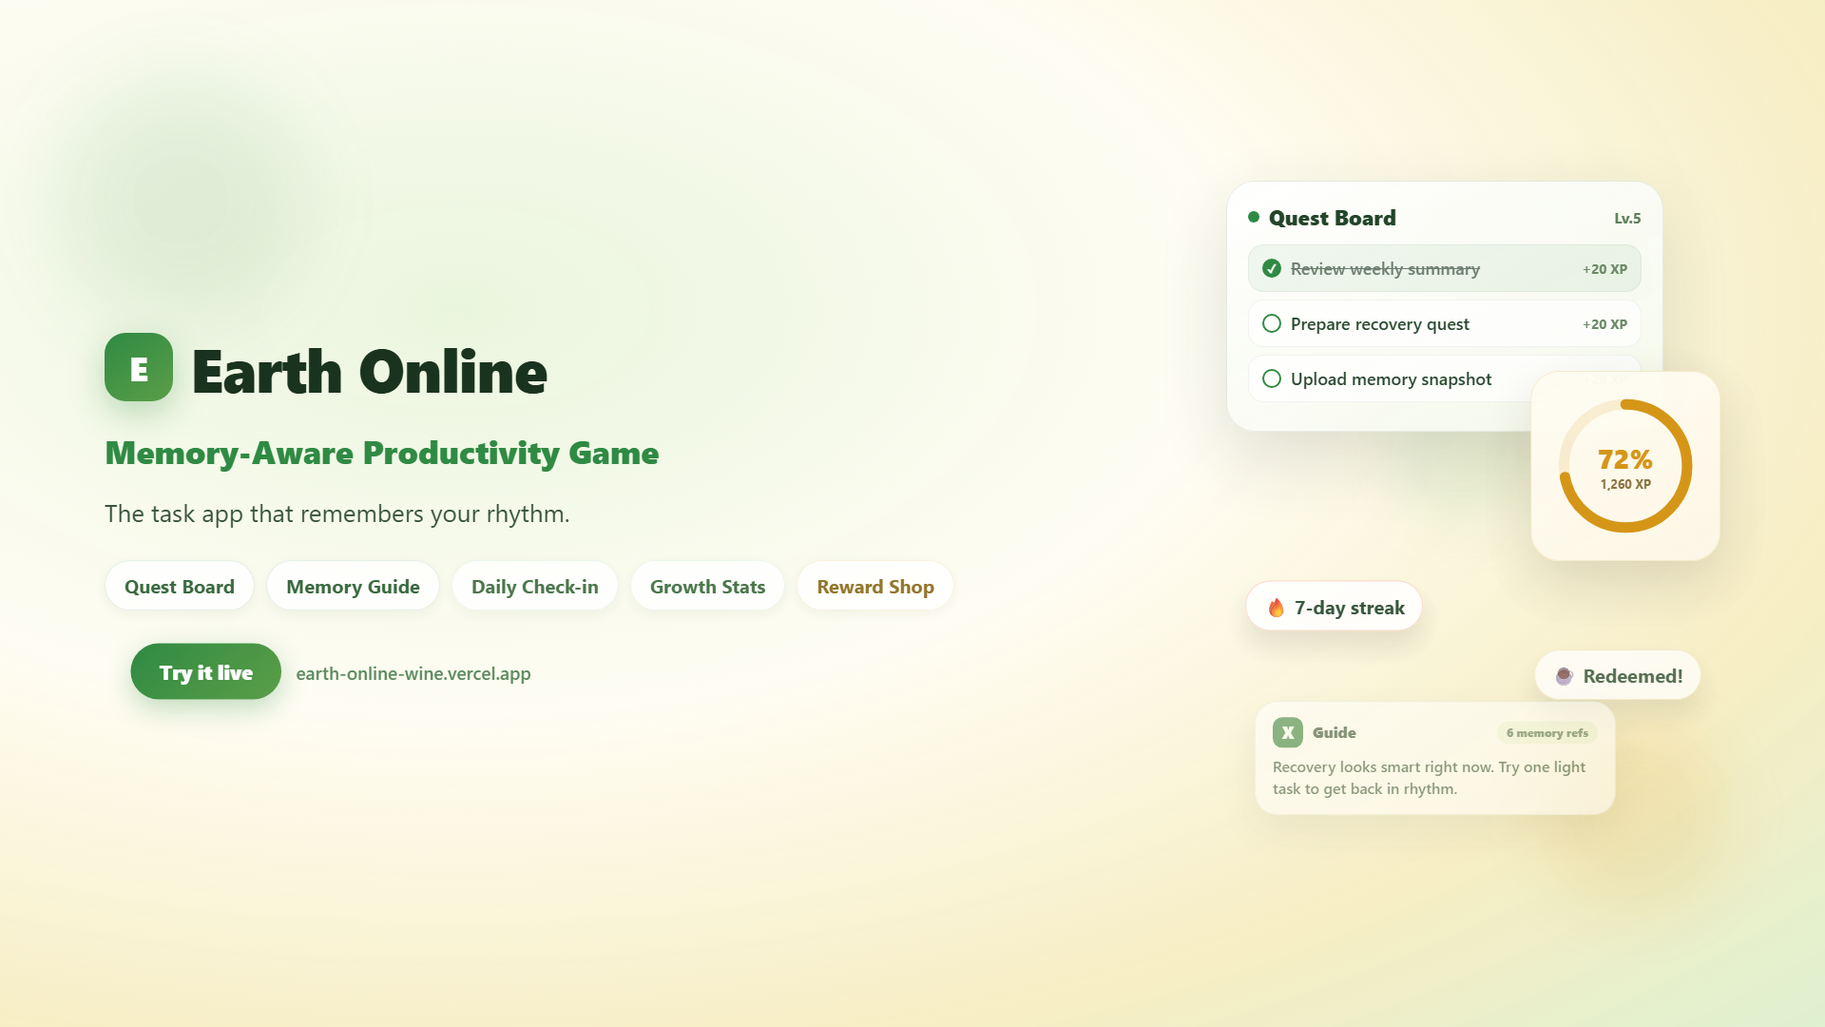
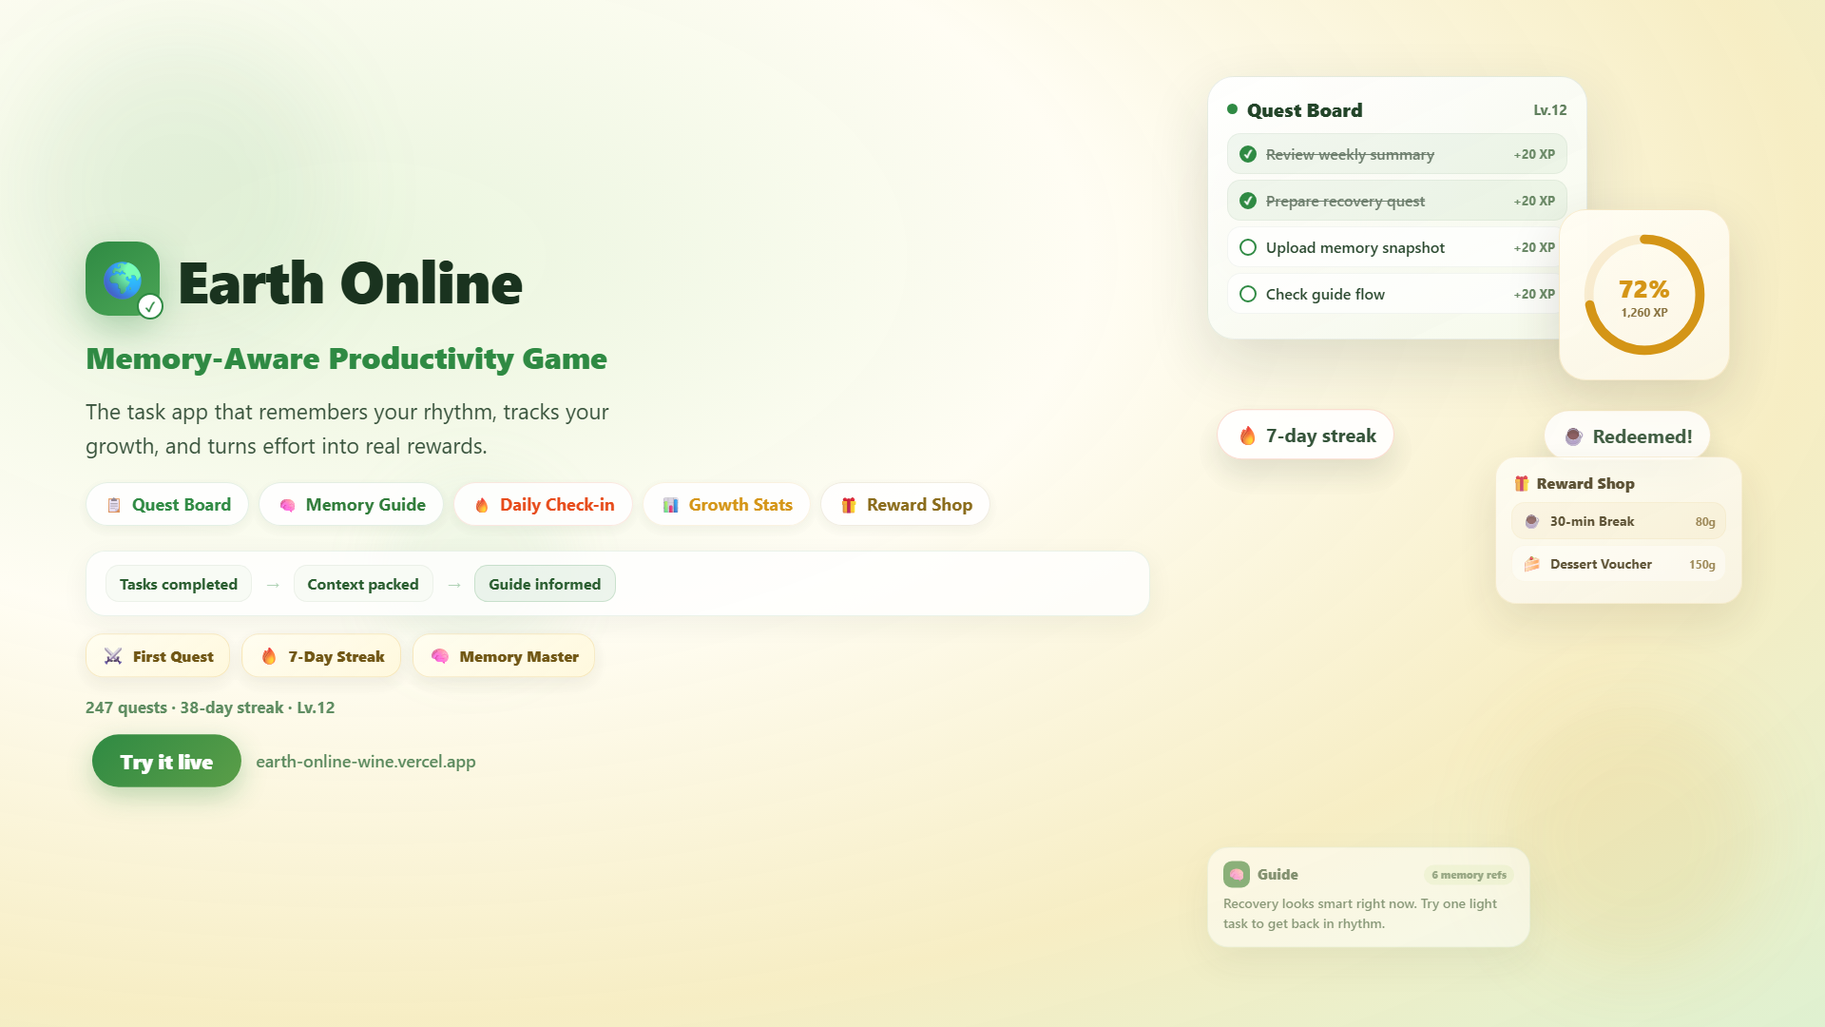
design: 海报增加产品图标与填充元素
- 产品图标换为地球+勾标识替代简陋 E 方块
- 左侧新增记忆流管线（完成→打包→就绪）、成就徽章行、统计数据行
- 右侧新增奖励商店迷你卡片，任务条增加到 4 行
- 功能 chip 加前缀图标，整体布局更紧凑
- 文案加长 tagline、描述更具体

diff --git a/promo-video/src/EarthOnlinePromo.tsx b/promo-video/src/EarthOnlinePromo.tsx
@@ -1563,24 +1563,36 @@ type PosterCopy = {
   features: [string, string, string, string, string];
   cta: string;
   url: string;
+  statsLine: string;
+  memoryFlow: [string, string, string];
+  achievements: [string, string, string];
+  guideBubble: string;
 };
 
 const posterCopyEn: PosterCopy = {
   title: 'Earth Online',
   subtitle: 'Memory-Aware Productivity Game',
-  tagline: 'The task app that remembers your rhythm.',
+  tagline: 'The task app that remembers your rhythm, tracks your growth, and turns effort into real rewards.',
   features: ['Quest Board', 'Memory Guide', 'Daily Check-in', 'Growth Stats', 'Reward Shop'],
   cta: 'Try it live',
   url: 'earth-online-wine.vercel.app',
+  statsLine: '247 quests · 38-day streak · Lv.12',
+  memoryFlow: ['Tasks completed', 'Context packed', 'Guide informed'],
+  achievements: ['First Quest', '7-Day Streak', 'Memory Master'],
+  guideBubble: 'Recovery looks smart right now. Try one light task to get back in rhythm.',
 };
 
 const posterCopyZh: PosterCopy = {
   title: 'Earth Online',
   subtitle: '会记忆的效率游戏',
-  tagline: '记住你节奏的任务工具。',
+  tagline: '记住你的节奏，追踪你的成长，把每一份付出变成看得见的奖励。',
   features: ['任务面板', '记忆助手', '每日签到', '成长仪表盘', '奖励商店'],
   cta: '立即体验',
   url: 'earth-online-wine.vercel.app',
+  statsLine: '247 个任务 · 连续 38 天 · Lv.12',
+  memoryFlow: ['完成任务', '打包上下文', '助手就绪'],
+  achievements: ['首个任务', '连续7天', '记忆大师'],
+  guideBubble: '现在适合恢复节奏，试试从一个轻量任务开始。',
 };
 
 const PosterComposition: React.FC<{copy: PosterCopy}> = ({copy}) => {
@@ -1588,197 +1600,257 @@ const PosterComposition: React.FC<{copy: PosterCopy}> = ({copy}) => {
   const {fps} = useVideoConfig();
 
   const titleIn = springIn(frame, fps, 0);
-  const subIn = appear(frame, 8, 16);
-  const tagIn = appear(frame, 16, 14);
-  const chipsIn = appear(frame, 22, 18);
-  const ctaIn = springIn(frame, fps, 28);
+  const subIn = appear(frame, 6, 14);
+  const tagIn = appear(frame, 12, 14);
+  const chipsIn = appear(frame, 18, 16);
+  const ctaIn = springIn(frame, fps, 24);
+  const flowIn = appear(frame, 14, 18);
+  const badgesIn = appear(frame, 20, 16);
   const ringProgress = interpolate(frame, [6, 30], [0, 0.72], {
     extrapolateLeft: 'clamp',
     extrapolateRight: 'clamp',
     easing: Easing.bezier(0.2, 0.8, 0.2, 1),
   });
-  const ringR = 82;
+  const ringR = 72;
   const ringC = 2 * Math.PI * ringR;
+
+  const chipColors = ['#2F8A43', '#2F7C39', '#E64A19', '#D49516', '#8A6B1A'];
+  const chipIcons = ['📋', '🧠', '🔥', '📊', '🎁'];
+  const badgeIcons = ['⚔', '🔥', '🧠'];
 
   return (
     <AbsoluteFill
       style={{
         ...shellStyle,
         background:
-          'radial-gradient(ellipse at 25% 30%, rgba(233,245,221,0.96) 0%, rgba(255,253,243,0.97) 40%, rgba(246,236,191,0.92) 75%, rgba(221,240,206,0.95) 100%)',
+          'radial-gradient(ellipse at 20% 25%, rgba(233,245,221,0.96) 0%, rgba(255,253,243,0.97) 35%, rgba(246,236,191,0.92) 70%, rgba(221,240,206,0.95) 100%)',
       }}
     >
       {/* Decorative orbs */}
-      <div style={{position: 'absolute', top: 80, left: 60, width: 260, height: 260, borderRadius: 260, background: 'rgba(47,138,67,0.1)', filter: 'blur(40px)'}} />
-      <div style={{position: 'absolute', bottom: 120, right: 100, width: 200, height: 200, borderRadius: 200, background: 'rgba(212,149,22,0.12)', filter: 'blur(30px)'}} />
-      <div style={{position: 'absolute', top: 400, right: 300, width: 160, height: 160, borderRadius: 160, background: 'rgba(115,195,126,0.1)', filter: 'blur(25px)'}} />
+      <div style={{position: 'absolute', top: 40, left: 30, width: 320, height: 320, borderRadius: 320, background: 'rgba(47,138,67,0.08)', filter: 'blur(50px)'}} />
+      <div style={{position: 'absolute', bottom: 60, right: 60, width: 280, height: 280, borderRadius: 280, background: 'rgba(212,149,22,0.1)', filter: 'blur(40px)'}} />
+      <div style={{position: 'absolute', top: 500, left: 400, width: 200, height: 200, borderRadius: 200, background: 'rgba(115,195,126,0.08)', filter: 'blur(30px)'}} />
+      <div style={{position: 'absolute', top: 150, right: 500, width: 140, height: 140, borderRadius: 140, background: 'rgba(230,74,25,0.06)', filter: 'blur(25px)'}} />
 
-      <div style={{position: 'absolute', inset: 0, display: 'flex', alignItems: 'center', padding: '0 110px', gap: 80}}>
-        {/* Left: Text content */}
-        <div style={{flex: 1, display: 'flex', flexDirection: 'column', gap: 22, transform: `translateY(${(1 - titleIn) * 20}px)`}}>
-          {/* Logo + title */}
+      <div style={{position: 'absolute', inset: 0, display: 'flex', padding: '60px 90px', gap: 60}}>
+        {/* ─── Left column ─── */}
+        <div style={{flex: 1, display: 'flex', flexDirection: 'column', justifyContent: 'center', gap: 18, transform: `translateY(${(1 - titleIn) * 16}px)`}}>
+          {/* Product icon (globe + checkmark) + title */}
           <div style={{display: 'flex', alignItems: 'center', gap: 18}}>
             <div style={{
-              width: 72, height: 72, borderRadius: 22,
-              background: 'linear-gradient(145deg, #2F8A43, #5B9E48)',
+              width: 78, height: 78, borderRadius: 24, position: 'relative',
+              background: 'linear-gradient(145deg, #2F8A43, #4BA556)',
+              boxShadow: '0 14px 40px rgba(47,138,67,0.35)',
               display: 'flex', alignItems: 'center', justifyContent: 'center',
-              boxShadow: '0 12px 36px rgba(47,138,67,0.3)',
             }}>
-              <div style={{fontSize: 36, color: '#fff', fontWeight: 900}}>E</div>
+              <div style={{fontSize: 40, lineHeight: 1}}>🌍</div>
+              <div style={{
+                position: 'absolute', right: -4, bottom: -4,
+                width: 28, height: 28, borderRadius: 999,
+                background: '#fff', border: '2px solid #2F8A43',
+                display: 'flex', alignItems: 'center', justifyContent: 'center',
+                fontSize: 14, fontWeight: 900, color: '#2F8A43',
+              }}>✓</div>
             </div>
-            <div style={{fontSize: 64, fontWeight: 900, color: '#1A331F', letterSpacing: -1}}>{copy.title}</div>
+            <div style={{fontSize: 62, fontWeight: 900, color: '#1A331F', letterSpacing: -1}}>{copy.title}</div>
           </div>
 
           {/* Subtitle */}
-          <div style={{
-            opacity: subIn,
-            fontSize: 34, fontWeight: 800, color: '#2F8A43',
-            transform: `translateY(${(1 - subIn) * 12}px)`,
-          }}>
+          <div style={{opacity: subIn, fontSize: 32, fontWeight: 800, color: '#2F8A43', transform: `translateY(${(1 - subIn) * 10}px)`}}>
             {copy.subtitle}
           </div>
 
           {/* Tagline */}
-          <div style={{
-            opacity: tagIn,
-            fontSize: 26, lineHeight: 1.5, color: '#38533C', maxWidth: 560,
-            transform: `translateY(${(1 - tagIn) * 10}px)`,
-          }}>
+          <div style={{opacity: tagIn, fontSize: 23, lineHeight: 1.55, color: '#38533C', maxWidth: 580, transform: `translateY(${(1 - tagIn) * 8}px)`}}>
             {copy.tagline}
           </div>
 
-          {/* Feature chips */}
-          <div style={{
-            display: 'flex', flexWrap: 'wrap', gap: 12, marginTop: 8,
-            opacity: chipsIn,
-            transform: `translateY(${(1 - chipsIn) * 14}px)`,
-          }}>
+          {/* Feature chips with icons */}
+          <div style={{display: 'flex', flexWrap: 'wrap', gap: 10, marginTop: 4, opacity: chipsIn, transform: `translateY(${(1 - chipsIn) * 12}px)`}}>
             {copy.features.map((f, i) => (
               <div key={f} style={{
-                padding: '12px 20px', borderRadius: 999,
-                background: 'rgba(255,255,255,0.88)',
-                border: `1px solid ${i < 2 ? '#2F8A4322' : i === 4 ? '#D4951622' : '#73C37E22'}`,
-                fontSize: 20, fontWeight: 700,
-                color: i < 2 ? '#2A5E30' : i === 4 ? '#8A6B1A' : '#3D6B3D',
-                boxShadow: '0 4px 16px rgba(30,50,32,0.06)',
+                padding: '10px 18px', borderRadius: 999, display: 'flex', gap: 8, alignItems: 'center',
+                background: 'rgba(255,255,255,0.9)',
+                border: `1px solid ${chipColors[i]}20`,
+                boxShadow: '0 4px 14px rgba(30,50,32,0.06)',
+                fontSize: 18, fontWeight: 700, color: chipColors[i],
               }}>
-                {f}
+                <span style={{fontSize: 16}}>{chipIcons[i]}</span>{f}
               </div>
             ))}
+          </div>
+
+          {/* Memory flow pipeline */}
+          <div style={{
+            marginTop: 8, padding: '14px 20px', borderRadius: 20,
+            background: 'rgba(255,255,255,0.8)',
+            border: '1px solid rgba(47,138,67,0.1)',
+            boxShadow: '0 8px 28px rgba(30,50,32,0.06)',
+            opacity: flowIn, transform: `translateY(${(1 - flowIn) * 10}px)`,
+            display: 'flex', alignItems: 'center', gap: 14,
+          }}>
+            {copy.memoryFlow.map((step, i) => (
+              <React.Fragment key={step}>
+                <div style={{
+                  padding: '8px 14px', borderRadius: 14,
+                  background: i === 2 ? '#2F8A4316' : 'rgba(248,251,244,0.95)',
+                  border: `1px solid ${i === 2 ? '#2F8A4330' : 'rgba(38,73,42,0.06)'}`,
+                  fontSize: 16, fontWeight: 700, color: '#2A5E30', whiteSpace: 'nowrap',
+                }}>{step}</div>
+                {i < 2 && <div style={{fontSize: 18, color: '#2F8A4360', fontWeight: 800}}>→</div>}
+              </React.Fragment>
+            ))}
+          </div>
+
+          {/* Achievement badges row */}
+          <div style={{display: 'flex', gap: 12, opacity: badgesIn, transform: `translateY(${(1 - badgesIn) * 10}px)`}}>
+            {copy.achievements.map((badge, i) => (
+              <div key={badge} style={{
+                padding: '10px 16px', borderRadius: 18, display: 'flex', gap: 8, alignItems: 'center',
+                background: 'linear-gradient(145deg, rgba(255,253,240,0.95), rgba(255,248,220,0.92))',
+                border: '1px solid rgba(212,149,22,0.18)',
+                boxShadow: '0 6px 20px rgba(40,36,20,0.08)',
+                fontSize: 16, fontWeight: 800, color: '#6D5310',
+              }}>
+                <span style={{fontSize: 18}}>{badgeIcons[i]}</span>{badge}
+              </div>
+            ))}
+          </div>
+
+          {/* Stats line */}
+          <div style={{opacity: badgesIn, fontSize: 17, fontWeight: 700, color: '#5B8A5E', marginTop: 2}}>
+            {copy.statsLine}
           </div>
 
           {/* CTA */}
-          <div style={{
-            marginTop: 12, display: 'flex', alignItems: 'center', gap: 16,
-            transform: `scale(${0.94 + ctaIn * 0.06})`,
-          }}>
+          <div style={{display: 'flex', alignItems: 'center', gap: 16, transform: `scale(${0.95 + ctaIn * 0.05})`}}>
             <div style={{
-              padding: '16px 32px', borderRadius: 999,
+              padding: '14px 30px', borderRadius: 999,
               background: 'linear-gradient(135deg, #2F8A43, #5B9E48)',
-              color: '#fff', fontSize: 22, fontWeight: 900,
-              boxShadow: '0 10px 30px rgba(47,138,67,0.3)',
+              color: '#fff', fontSize: 21, fontWeight: 900,
+              boxShadow: '0 10px 28px rgba(47,138,67,0.3)',
             }}>
               {copy.cta}
             </div>
-            <div style={{fontSize: 20, color: '#5B8A5E', fontWeight: 600}}>{copy.url}</div>
+            <div style={{fontSize: 18, color: '#5B8A5E', fontWeight: 600}}>{copy.url}</div>
           </div>
         </div>
 
-        {/* Right: Visual showcase */}
-        <div style={{width: 520, height: 700, position: 'relative'}}>
-          {/* Mock quest board card */}
+        {/* ─── Right column ─── */}
+        <div style={{width: 560, position: 'relative'}}>
+          {/* Quest board card */}
           <div style={{
-            position: 'absolute', left: 0, top: 0, width: 460, borderRadius: 30,
-            padding: 22, overflow: 'hidden',
+            position: 'absolute', left: 0, top: 20, width: 400, borderRadius: 28, padding: 20,
             background: 'linear-gradient(155deg, rgba(255,255,255,0.96), rgba(245,249,236,0.93))',
             border: '1px solid rgba(45,89,48,0.1)',
-            boxShadow: '0 28px 72px rgba(32,51,35,0.14)',
-            opacity: appear(frame, 10, 16),
-            transform: `translateY(${(1 - appear(frame, 10, 16)) * 18}px)`,
+            boxShadow: '0 24px 64px rgba(32,51,35,0.14)',
+            opacity: appear(frame, 8, 16),
+            transform: `translateY(${(1 - appear(frame, 8, 16)) * 16}px)`,
           }}>
-            <div style={{display: 'flex', alignItems: 'center', gap: 10, marginBottom: 14}}>
-              <div style={{width: 12, height: 12, borderRadius: 999, background: '#2F8A43'}} />
-              <div style={{fontSize: 22, fontWeight: 800, color: '#234529'}}>Quest Board</div>
-              <div style={{marginLeft: 'auto', fontSize: 16, fontWeight: 700, color: '#61805E'}}>Lv.5</div>
+            <div style={{display: 'flex', alignItems: 'center', gap: 10, marginBottom: 12}}>
+              <div style={{width: 11, height: 11, borderRadius: 999, background: '#2F8A43'}} />
+              <div style={{fontSize: 20, fontWeight: 800, color: '#234529'}}>Quest Board</div>
+              <div style={{marginLeft: 'auto', fontSize: 15, fontWeight: 700, color: '#61805E'}}>Lv.12</div>
             </div>
-            {['Review weekly summary', 'Prepare recovery quest', 'Upload memory snapshot'].map((t, i) => (
+            {['Review weekly summary', 'Prepare recovery quest', 'Upload memory snapshot', 'Check guide flow'].map((t, i) => (
               <div key={t} style={{
                 display: 'flex', gap: 10, alignItems: 'center',
-                padding: '12px 14px', marginBottom: 8, borderRadius: 16,
-                background: i === 0 ? '#2F8A4312' : 'rgba(255,255,255,0.7)',
-                border: '1px solid rgba(38,73,42,0.06)',
+                padding: '10px 12px', marginBottom: 6, borderRadius: 14,
+                background: i < 2 ? '#2F8A4310' : 'rgba(255,255,255,0.7)',
+                border: '1px solid rgba(38,73,42,0.05)',
               }}>
                 <div style={{
-                  width: 20, height: 20, borderRadius: 999,
-                  background: i === 0 ? '#2F8A43' : 'transparent',
+                  width: 18, height: 18, borderRadius: 999,
+                  background: i < 2 ? '#2F8A43' : 'transparent',
                   border: '2px solid #2F8A43',
                   display: 'flex', alignItems: 'center', justifyContent: 'center',
-                  color: '#fff', fontSize: 12, fontWeight: 900,
-                }}>
-                  {i === 0 ? '✓' : ''}
-                </div>
+                  color: '#fff', fontSize: 11, fontWeight: 900,
+                }}>{i < 2 ? '✓' : ''}</div>
                 <div style={{
-                  fontSize: 18, color: i === 0 ? '#6C7D6C' : '#29482E',
-                  textDecoration: i === 0 ? 'line-through' : 'none', fontWeight: 600,
+                  fontSize: 16, fontWeight: 600,
+                  color: i < 2 ? '#6C7D6C' : '#29482E',
+                  textDecoration: i < 2 ? 'line-through' : 'none',
                 }}>{t}</div>
-                <div style={{marginLeft: 'auto', fontSize: 14, fontWeight: 700, color: '#6B8A67'}}>+20 XP</div>
+                <div style={{marginLeft: 'auto', fontSize: 13, fontWeight: 700, color: '#6B8A67'}}>+20 XP</div>
               </div>
             ))}
           </div>
 
-          {/* XP Ring overlay */}
+          {/* XP Ring */}
           <div style={{
-            position: 'absolute', right: 0, top: 200, width: 200, height: 200,
-            borderRadius: 30, padding: 20,
+            position: 'absolute', right: 10, top: 160, width: 180, height: 180,
+            borderRadius: 28, padding: 16,
             background: 'linear-gradient(155deg, rgba(255,253,243,0.98), rgba(252,247,230,0.96))',
             border: '1px solid rgba(212,149,22,0.16)',
-            boxShadow: '0 22px 60px rgba(40,36,20,0.15)',
-            opacity: appear(frame, 18, 16),
-            transform: `translateX(${(1 - appear(frame, 18, 16)) * 20}px)`,
+            boxShadow: '0 20px 54px rgba(40,36,20,0.15)',
+            opacity: appear(frame, 16, 16),
+            transform: `translateX(${(1 - appear(frame, 16, 16)) * 18}px)`,
             display: 'flex', alignItems: 'center', justifyContent: 'center',
           }}>
-            <svg width="160" height="160" viewBox="0 0 200 200" style={{transform: 'rotate(-90deg)'}}>
-              <circle cx="100" cy="100" r={ringR} fill="none" stroke="rgba(212,149,22,0.14)" strokeWidth="14" />
-              <circle cx="100" cy="100" r={ringR} fill="none" stroke="#D49516" strokeWidth="14"
+            <svg width="148" height="148" viewBox="0 0 180 180" style={{transform: 'rotate(-90deg)'}}>
+              <circle cx="90" cy="90" r={ringR} fill="none" stroke="rgba(212,149,22,0.14)" strokeWidth="12" />
+              <circle cx="90" cy="90" r={ringR} fill="none" stroke="#D49516" strokeWidth="12"
                 strokeLinecap="round" strokeDasharray={ringC} strokeDashoffset={ringC * (1 - ringProgress)} />
             </svg>
             <div style={{position: 'absolute', display: 'flex', flexDirection: 'column', alignItems: 'center'}}>
-              <div style={{fontSize: 28, fontWeight: 900, color: '#D49516'}}>{Math.round(ringProgress * 100)}%</div>
-              <div style={{fontSize: 13, fontWeight: 700, color: '#8A7340'}}>1,260 XP</div>
+              <div style={{fontSize: 26, fontWeight: 900, color: '#D49516'}}>{Math.round(ringProgress * 100)}%</div>
+              <div style={{fontSize: 12, fontWeight: 700, color: '#8A7340'}}>1,260 XP</div>
             </div>
           </div>
 
-          {/* Streak chip */}
-          <FloatingChip label="🔥 7-day streak" accent="#E64A19" start={22} top={420} left={20} />
+          {/* Streak + reward chips */}
+          <FloatingChip label="🔥 7-day streak" accent="#E64A19" start={20} top={370} left={10} />
+          <FloatingChip label="☕ Redeemed!" accent="#D49516" start={24} top={370} right={30} />
 
-          {/* Reward chip */}
-          <FloatingChip label="☕ Redeemed!" accent="#D49516" start={26} top={490} right={20} />
+          {/* Reward shop mini card */}
+          <div style={{
+            position: 'absolute', right: 0, top: 420, width: 260, borderRadius: 22, padding: 16,
+            background: 'linear-gradient(155deg, rgba(255,255,249,0.97), rgba(249,245,234,0.95))',
+            border: '1px solid rgba(212,149,22,0.14)',
+            boxShadow: '0 18px 48px rgba(40,36,20,0.12)',
+            opacity: appear(frame, 26, 14),
+            transform: `translateX(${(1 - appear(frame, 26, 14)) * 16}px)`,
+          }}>
+            <div style={{fontSize: 16, fontWeight: 800, color: '#3A2F14', marginBottom: 10}}>🎁 Reward Shop</div>
+            {['30-min Break', 'Dessert Voucher'].map((item, i) => (
+              <div key={item} style={{
+                display: 'flex', gap: 8, alignItems: 'center',
+                padding: '8px 10px', marginBottom: 6, borderRadius: 14,
+                background: i === 0 ? '#D4951610' : 'rgba(255,255,255,0.7)',
+                border: '1px solid rgba(212,149,22,0.06)',
+              }}>
+                <span style={{fontSize: 16}}>{i === 0 ? '☕' : '🍰'}</span>
+                <div style={{flex: 1, fontSize: 14, fontWeight: 700, color: '#3A2F14'}}>{item}</div>
+                <div style={{fontSize: 12, fontWeight: 700, color: '#8A7340'}}>{i === 0 ? '80g' : '150g'}</div>
+              </div>
+            ))}
+          </div>
 
           {/* Guide bubble */}
           <div style={{
-            position: 'absolute', left: 30, bottom: 40, width: 380, borderRadius: 24,
-            padding: '16px 18px',
+            position: 'absolute', left: 0, bottom: 30, width: 340, borderRadius: 22,
+            padding: '14px 16px',
             background: 'rgba(255,255,255,0.94)',
             border: '1px solid rgba(47,138,67,0.12)',
-            boxShadow: '0 18px 44px rgba(32,51,35,0.12)',
+            boxShadow: '0 16px 40px rgba(32,51,35,0.12)',
             opacity: appear(frame, 28, 14),
-            transform: `translateY(${(1 - appear(frame, 28, 14)) * 16}px)`,
+            transform: `translateY(${(1 - appear(frame, 28, 14)) * 14}px)`,
           }}>
-            <div style={{display: 'flex', gap: 10, alignItems: 'center', marginBottom: 8}}>
+            <div style={{display: 'flex', gap: 8, alignItems: 'center', marginBottom: 6}}>
               <div style={{
-                width: 32, height: 32, borderRadius: 10,
+                width: 28, height: 28, borderRadius: 9,
                 background: '#2F7C39', color: '#fff',
                 display: 'flex', alignItems: 'center', justifyContent: 'center',
-                fontSize: 18, fontWeight: 900,
-              }}>X</div>
-              <div style={{fontSize: 16, fontWeight: 800, color: '#254329'}}>Guide</div>
+                fontSize: 15, fontWeight: 900,
+              }}>🧠</div>
+              <div style={{fontSize: 15, fontWeight: 800, color: '#254329'}}>Guide</div>
               <div style={{
-                marginLeft: 'auto', padding: '4px 10px', borderRadius: 999,
-                background: '#EEF7E1', fontSize: 12, fontWeight: 800, color: '#4F6E4F',
+                marginLeft: 'auto', padding: '3px 8px', borderRadius: 999,
+                background: '#EEF7E1', fontSize: 11, fontWeight: 800, color: '#4F6E4F',
               }}>6 memory refs</div>
             </div>
-            <div style={{fontSize: 16, lineHeight: 1.45, color: '#2E4E33', fontWeight: 600}}>
-              Recovery looks smart right now. Try one light task to get back in rhythm.
+            <div style={{fontSize: 14, lineHeight: 1.5, color: '#2E4E33', fontWeight: 600}}>
+              {copy.guideBubble}
             </div>
           </div>
         </div>
